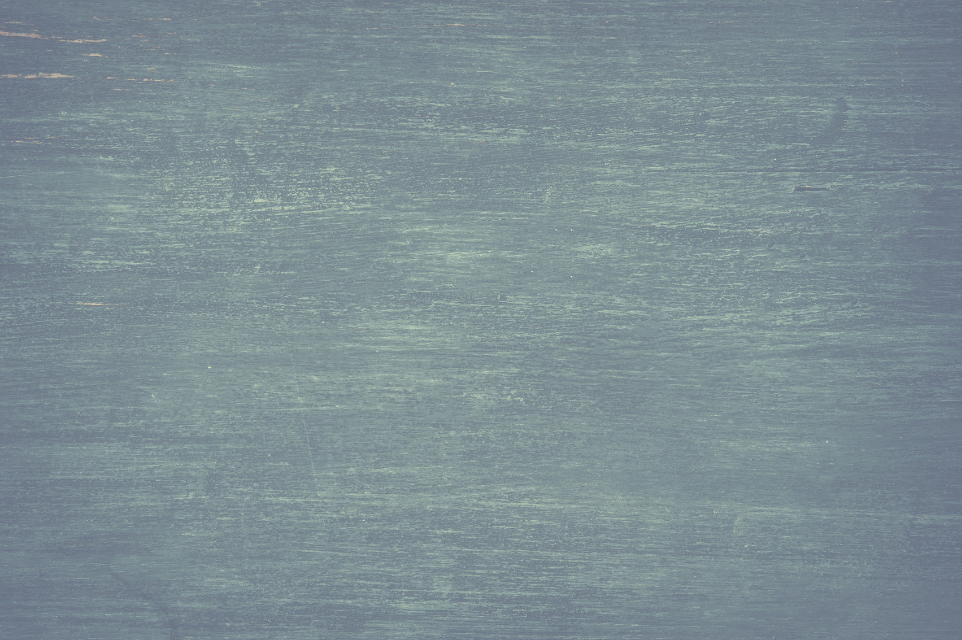
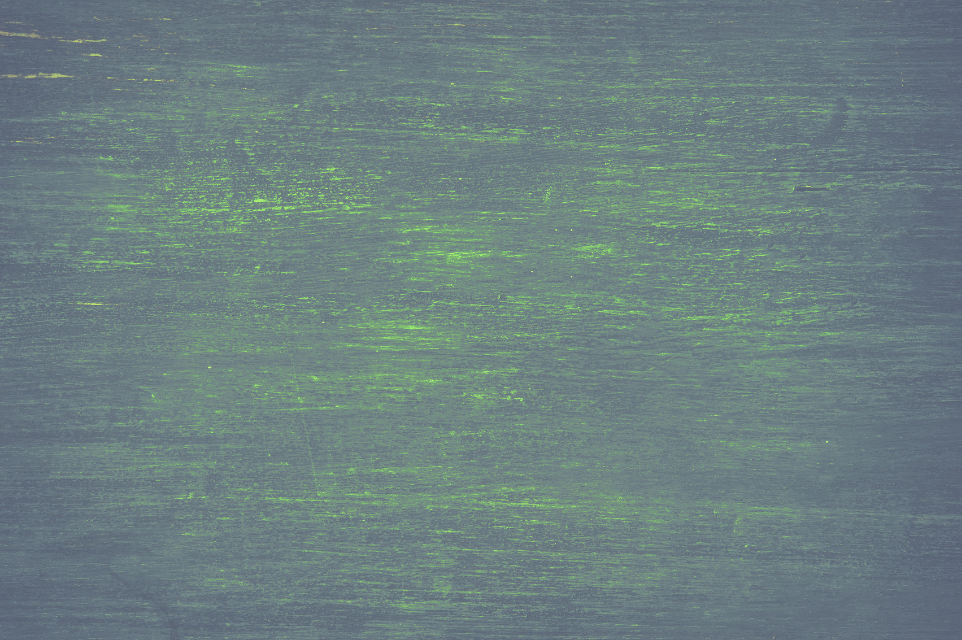
theme prettyfying

diff --git a/src/main/resources/views/css/index.css b/src/main/resources/views/css/index.css
@@ -37,11 +37,14 @@ body {
 }
 
 .lighterButton {
-    background-image: url("/img/background_lighter.png");
+    background-image: url("/img/background.png");
+    border: 1px solid darkgreen;
 }
 
 .darkerButton {
     background-image: url("/img/background.png");
+    border-top: 1px solid darkgreen;
+    border-bottom: 1px solid darkgreen;
 }
 
 #heroPanel {
@@ -55,7 +58,8 @@ body {
     padding: 0;
     z-index: 750;
     visibility: hidden;
-    background-image: url("img/background.png");
+    background-image: url("img/background_lighter.png");
+    background-size: cover;
     font-size: x-large;
     font-family: Arimo, serif;
     text-align: center;
@@ -72,7 +76,8 @@ body {
     padding: 0;
     z-index: 750;
     visibility: hidden;
-    background: chartreuse;
+    background-image: url("img/background_lighter.png");
+    background-size: cover;
     font-size: x-large;
     font-family: Arimo, serif;
     text-align: center;
@@ -89,7 +94,8 @@ body {
     padding: 0;
     z-index: 750;
     visibility: hidden;
-    background: chartreuse;
+    background-image: url("img/background_lighter.png");
+    background-size: cover;
     font-size: x-large;
     font-family: Arimo, serif;
     text-align: center;
@@ -106,6 +112,40 @@ body {
     padding: 10px;
 }
 
+
+#banner {
+    width: 100%;
+    border: 1px solid darkgreen;
+    border-radius: 5px;
+}
+
+.standardButton {
+    background-image: url("/img/background.png");
+    border: 1px solid darkgreen;
+    border-radius: 5px;
+    font-weight: bold;
+    font-size: x-large;
+}
+
+.plusButton {
+    background: none;
+    font-weight: bolder;
+    border: 1px solid #023902;
+    border-radius: 3px;
+    color: #023902;
+    margin: 0;
+    padding: 0px 6px;
+    font-size: x-large;
+}
+
+input {
+    border: 1px solid darkgreen;
+    border-radius: 5px;
+    background: #ddd;
+    font-size: x-large;
+    color: #023902;
+}
+
 #interaction {
     position: absolute;
     left: 8%;
@@ -117,7 +157,10 @@ body {
 }
 
 #interactionInfo {
-    background: chartreuse;
+    background-image: url("img/background_lighter.png");
+    background-size: cover;
+    border: 1px solid green;
+    border-radius: 5px;
     height: 75%;
     width: 100%;
     padding: 2px;
@@ -130,7 +173,8 @@ body {
     height: 70%;
     width: calc(100% - 4px);
     margin: 2px;
-    background: white;
+    background: #ddd;
+    border-radius: 5px;
     text-align: center;
 }
 
@@ -153,8 +197,9 @@ body {
 #interactionButtons button {
     height: 100%;
     margin: 0;
-    border: 0;
-    background: chartreuse;
+    background-image: url("img/background.png");
+    border: 1px solid darkgreen;
+    border-radius: 5px;
     font-size: xx-large;
     font-weight: bold;
     font-family: Arimo, serif;

diff --git a/src/main/resources/views/css/login.css b/src/main/resources/views/css/login.css
@@ -1,14 +1,26 @@
-body{
-    background-image: url("img/background_lighter.png");
+
+body {
+    background-image: url("../img/background_much_lighter.png");
+}
+
+p {
+    font-size: x-large;
+}
+
+input {
+    font-size: x-large;
+    margin-bottom: 10px;
 }
 
 #login {
     position: absolute;
     left: 20%;
-    background-image: url("img/background.png");
+    background-image: url("../img/background_lighter.png");
+    background-size: cover;
+    border: 2px solid darkgreen;
+    border-radius: 5px;
     top: 2%;
     width: calc(60% - 40px);
-    border: 0;
     margin: 0;
     padding: 20px;
     font-size: x-large;
@@ -18,8 +30,23 @@ body{
 
 #banner {
     width: 100%;
+    border: 1px solid darkgreen;
+    border-radius: 5px;
 }
 
-.button{
-    background-image: url("/img/background_lighter.png");
+.submitButton {
+    background-image: url("/img/background.png");
+    border: 1px solid darkgreen;
+    border-radius: 5px;
+    font-weight: bold;
+    font-size: x-large;
+}
+
+
+input {
+    border: 1px solid darkgreen;
+    border-radius: 5px;
+    background: #ddd;
+    font-size: x-large;
+    color: #023902;
 }
